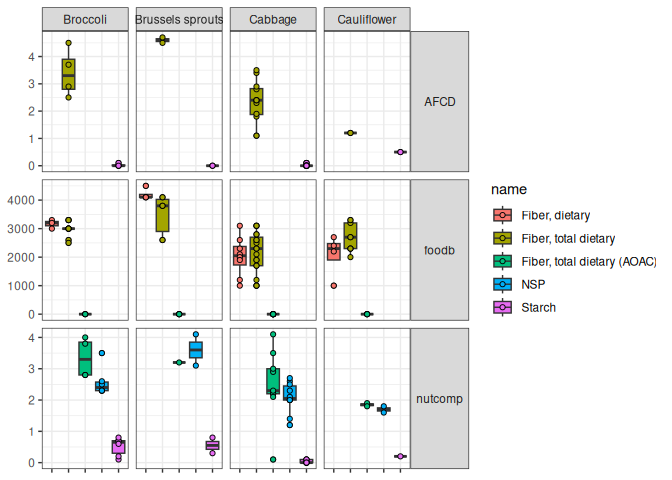
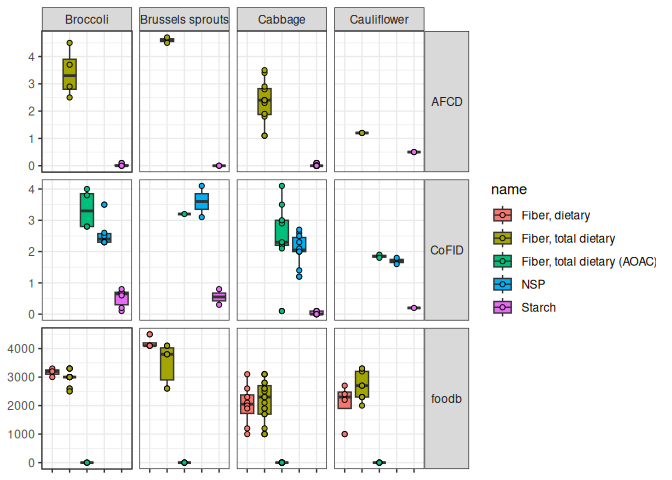
up

diff --git a/README.md b/README.md
@@ -4,25 +4,13 @@
 [lsb](https://www.leibniz-lsb.de/en/research/technology-facilities/databases)  
 [foodb](https://foodb.ca/)  
 [AFCD](https://www.foodstandards.gov.au/science-data/monitoringnutrients/afcd/australian-food-composition-database-download-excel-files#nutrient)
+ 
+[CoFID](https://www.gov.uk/government/publications/composition-of-foods-integrated-dataset-cofid)
 
 ``` r
 source("R/prep_afcd.R")
-```
-
-    ## ── Attaching core tidyverse packages ──────────────────────── tidyverse 2.0.0 ──
-    ## ✔ dplyr     1.1.4     ✔ readr     2.1.5
-    ## ✔ forcats   1.0.0     ✔ stringr   1.5.1
-    ## ✔ ggplot2   3.5.1     ✔ tibble    3.2.1
-    ## ✔ lubridate 1.9.4     ✔ tidyr     1.3.1
-    ## ✔ purrr     1.0.4     
-    ## ── Conflicts ────────────────────────────────────────── tidyverse_conflicts() ──
-    ## ✖ dplyr::filter() masks stats::filter()
-    ## ✖ dplyr::lag()    masks stats::lag()
-    ## ℹ Use the conflicted package (<http://conflicted.r-lib.org/>) to force all conflicts to become errors
-
-``` r
 source("R/prep_foodb.R")
-source("R/prep_nutcomp.R")
+source("R/prep_cofid.R")
 ```
 
     ## Rows: 182 Columns: 47
@@ -55,9 +43,9 @@ do.call(
     list(
         afcd_df %>% mutate(db = "AFCD"),
         foodb_df %>% mutate(db = "foodb"),
-        nutcomp_df %>%
+        cofid_df %>%
             dplyr::select(colnames(afcd_df)) %>%
-            mutate(db = "nutcomp")
+            mutate(db = "CoFID")
     )
 ) %>%
 
